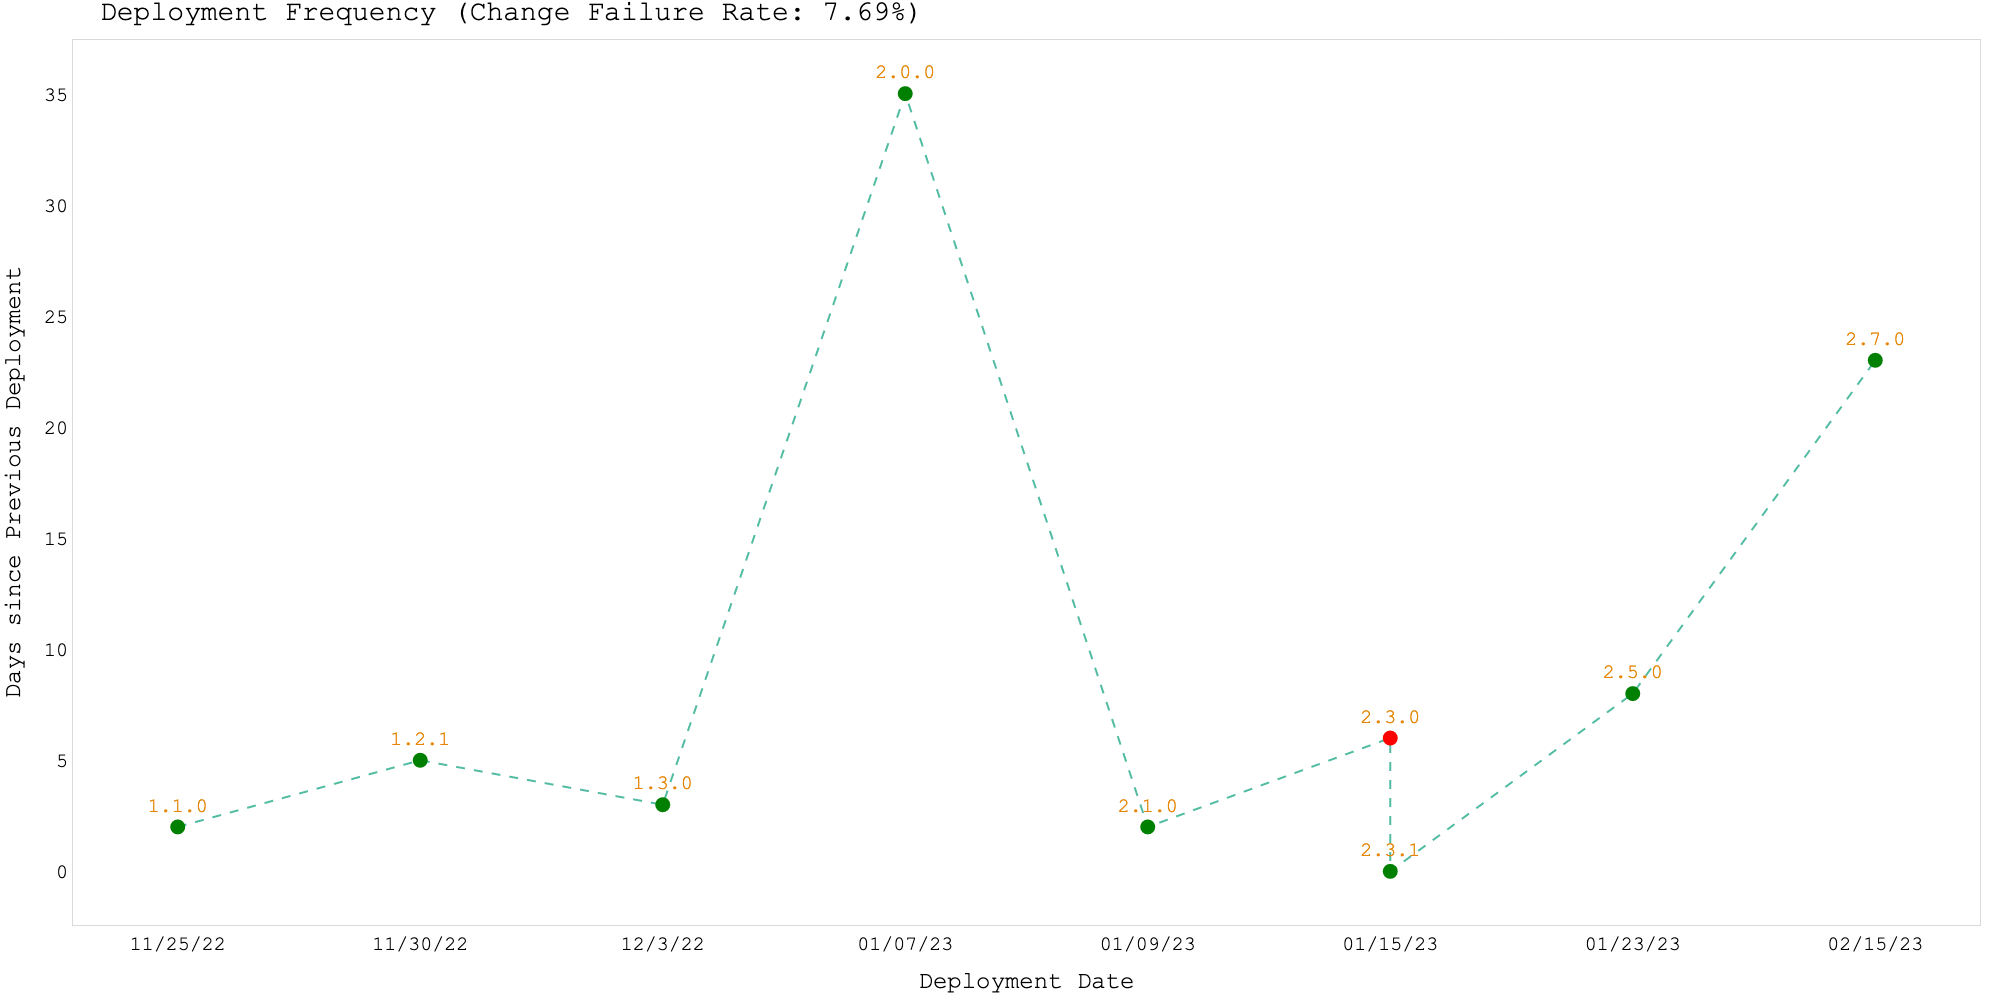
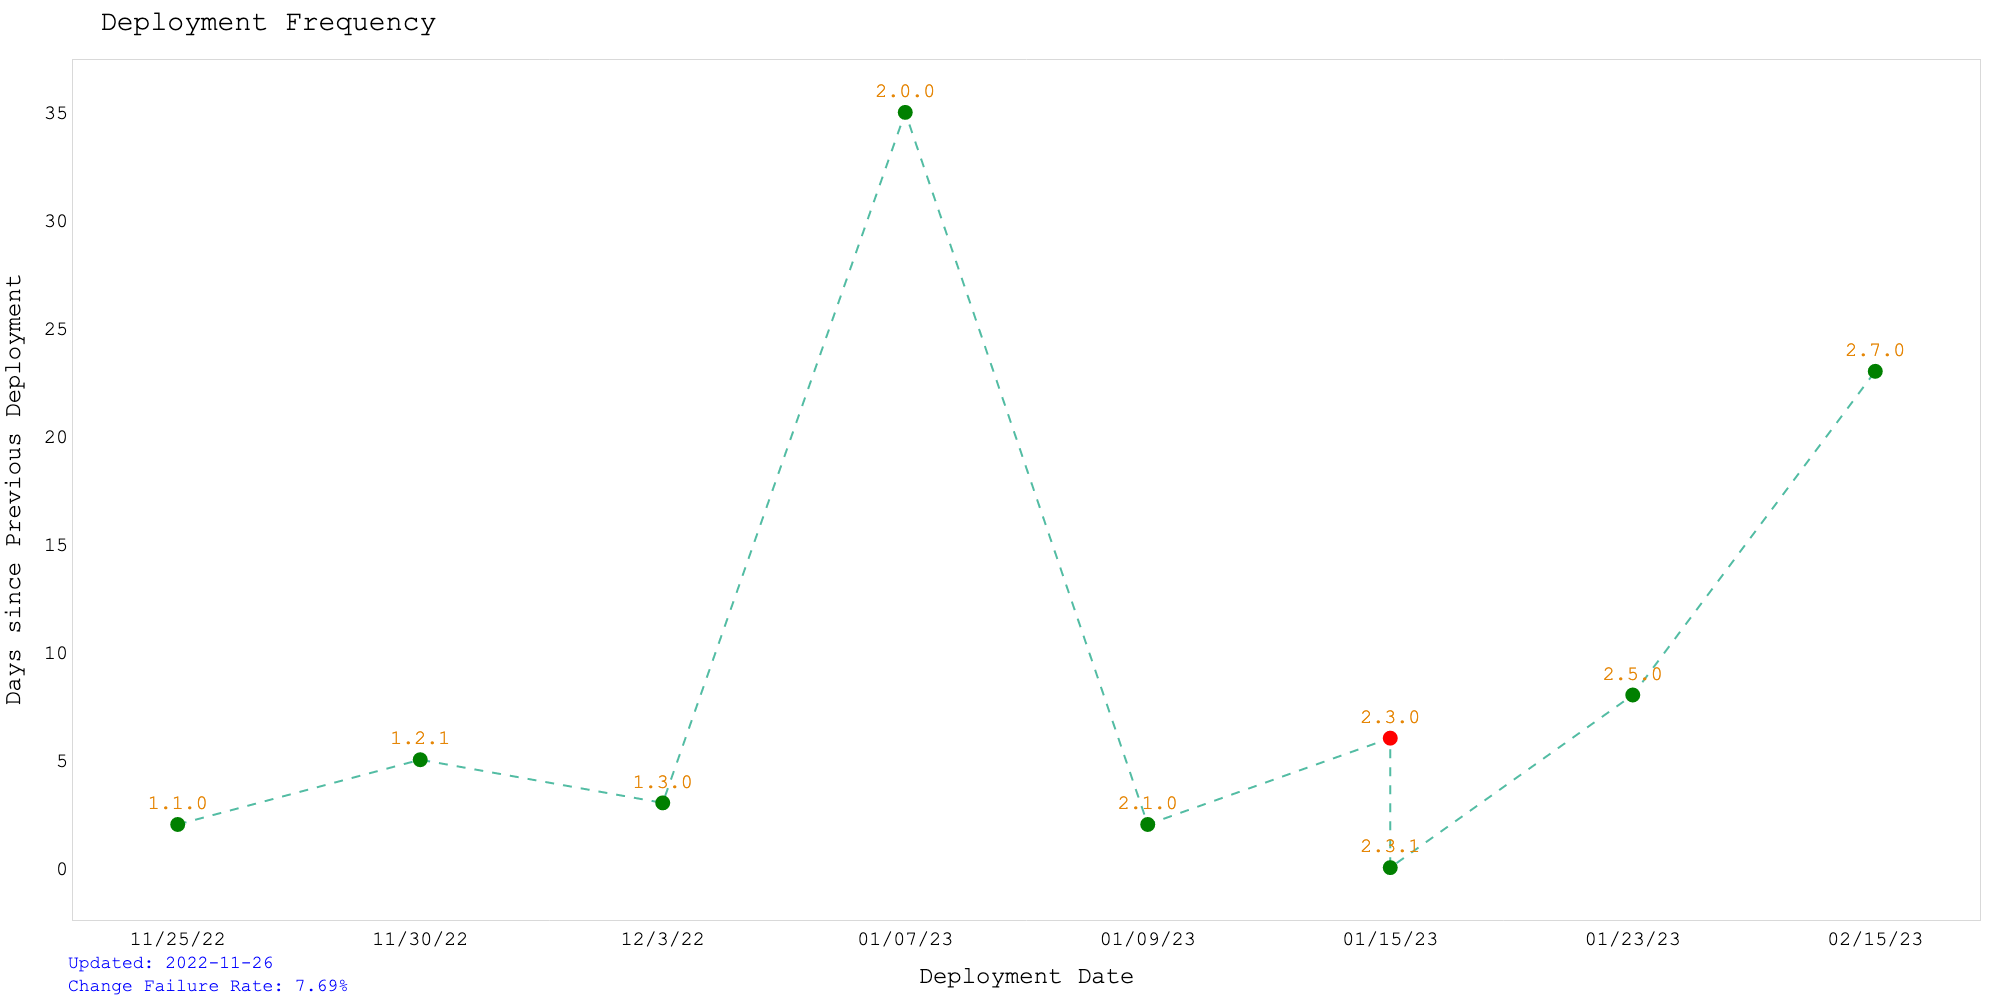
Add Chart annotation for update date and failure rate

diff --git a/generate_metrics.py b/generate_metrics.py
@@ -48,7 +48,7 @@ def create_plot(df):
     deployments_deltas=df.dropna(subset=['deploymentDelta'])
 
     layout = dict(plot_bgcolor='white',
-              margin=dict(t=40, l=20, r=20, b=20),
+              margin=dict(t=60, l=20, r=20, b=80),
               xaxis=dict(title='Deployment Date',
                          linecolor='#d9d9d9',
                          showgrid=False,
@@ -69,14 +69,26 @@ def create_plot(df):
                     name='version')
 
     fig = go.Figure(data=data, layout=layout)
-    title = 'Deployment Frequency (Change Failure Rate: ' + str(get_failure_rate(df)) + '%)'
     fig.update_layout(
-        title=title,
+        title='Deployment Frequency',
         font=dict(
             family="Courier New, monospace",
             size=20,
             color="Black"
         )
+    )
+    fig.add_annotation(
+        text=(f"Updated: {datetime.date.today()}<br>Change Failure Rate: {get_failure_rate(df)}%"),
+        x = 0,
+        y = -1,
+        xref='paper',
+        yref='paper',
+        xanchor='left',
+        yanchor='bottom',
+        xshift=3,
+        yshift=25,
+        font=dict(size=18, color="blue"),
+        align="left",
     )
     return(fig)
 
